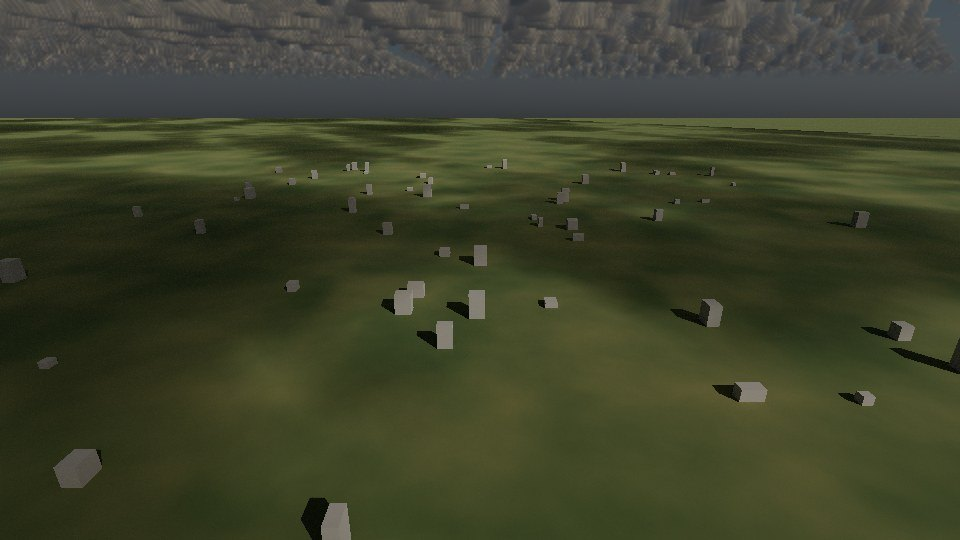
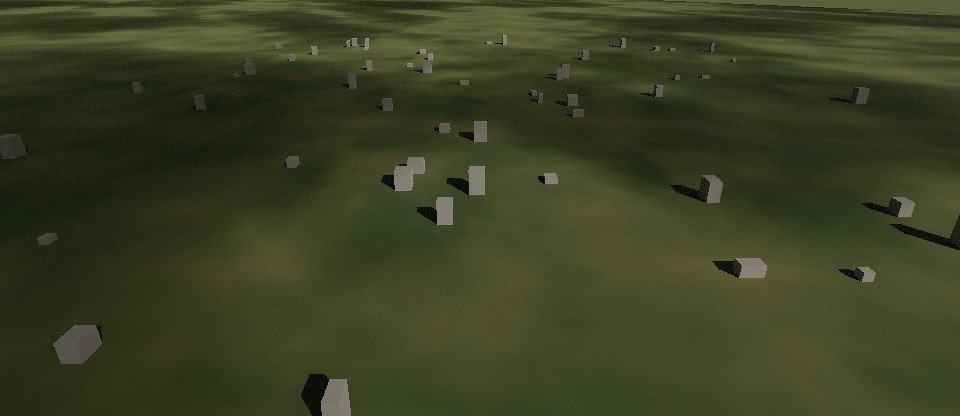
docs: crop the blocky cloud strip off the cloud shadows image
Claude-Session: https://claude.ai/code/session_019a7Xd2PZ5gvYQ3NZ7og5rU

diff --git a/site/content/features/sky-and-clouds.md b/site/content/features/sky-and-clouds.md
@@ -30,7 +30,7 @@ summary: "Sun and moon set by date, time and place; a scattering atmosphere with
 - **Cloud reprojection** (`WeatherSkyMaterial.cloud_reprojection`, on by default): clouds draw a sixteenth of their pixels each frame and reproject the rest (Nubis), still full resolution.
 - **Cloud shadows** (`sun_light`): the clouds' shadow is baked into the sun's projector, matching in raster and path tracing.
 
-  ![Cloud shadows moving across a field, seen from above, path traced](media/weather-cloud-shadows.jpg)
+  ![Cloud shadows on a field, seen from above, path traced](media/weather-cloud-shadows.jpg)
 
   *Cloud shadows: dark patches on the ground under the clouds.*
 
